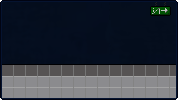
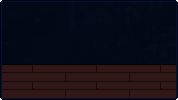
feat: add day2 scene5 lift interaction

diff --git a/edge_of_rule/src/levels/day2/scene5/spawner/notice_of_lift.rs b/edge_of_rule/src/levels/day2/scene5/spawner/notice_of_lift.rs
@@ -1,0 +1,62 @@
+use bevy::prelude::*;
+
+use crate::entities::{arrow::spawn_arrow, lift::Lift, player::Player, press_e::spawn_press_e};
+
+#[derive(Component)]
+pub struct NoticeOfLift;
+
+pub fn spawn(
+    mut commands: Commands,
+    asset_server: Res<AssetServer>,
+    notices: Query<&NoticeOfLift>,
+    players: Query<&Transform, With<Player>>,
+    lifts: Query<&Transform, With<Lift>>,
+) {
+    if notices.iter().len() != 0 {
+        return;
+    }
+
+    for player in &players {
+        for lift in &lifts {
+            if (player.translation.x - lift.translation.x).abs() < 60.0 {
+                // Keep the same UI offset pattern as Day2Scene3.
+                let arrow_pos = Transform::from_xyz(lift.translation.x, 160.0, 1.0);
+                let press_e_pos = Transform::from_xyz(lift.translation.x + 76.0, 160.0, 1.0);
+                spawn_arrow(&mut commands, arrow_pos, &asset_server, NoticeOfLift);
+                spawn_press_e(
+                    &mut commands,
+                    press_e_pos,
+                    &asset_server,
+                    "离开",
+                    NoticeOfLift,
+                );
+                return;
+            }
+        }
+    }
+}
+
+pub fn despawn(
+    mut commands: Commands,
+    notices: Query<Entity, With<NoticeOfLift>>,
+    players: Query<&Transform, With<Player>>,
+    lifts: Query<&Transform, With<Lift>>,
+) {
+    for player in &players {
+        for lift in &lifts {
+            if (player.translation.x - lift.translation.x).abs() < 60.0 {
+                return;
+            }
+        }
+    }
+
+    for notice in &notices {
+        commands.entity(notice).despawn_recursive();
+    }
+}
+
+pub fn despawn_all(mut commands: Commands, notices: Query<Entity, With<NoticeOfLift>>) {
+    for notice in &notices {
+        commands.entity(notice).despawn_recursive();
+    }
+}

diff --git a/edge_of_rule/src/levels/day2/scene5/mod.rs b/edge_of_rule/src/levels/day2/scene5/mod.rs
@@ -11,13 +11,38 @@ impl Plugin for Scene5Plugin {
     fn build(&self, app: &mut App) {
         app.add_systems(
             OnEnter(GameState::Day2Scene5),
-            (spawner::lift::spawn, actions::start_close_lift_on_enter),
+            (
+                spawner::background::spawn,
+                spawner::ground_and_wall::spawn,
+                spawner::player::spawn,
+                spawner::lift::spawn,
+                actions::start_close_lift_on_enter,
+            ),
         )
-        .add_systems(OnExit(GameState::Day2Scene5), spawner::lift::despawn)
+        .add_systems(
+            OnExit(GameState::Day2Scene5),
+            (
+                spawner::background::despawn,
+                spawner::ground_and_wall::despawn,
+                spawner::player::despawn,
+                spawner::lift::despawn,
+                actions::start_close_lift_on_enter,
+            ),
+        )
         .add_systems(
             Update,
-            crate::animation::lift_door::tick_lift_door_anim
-                .run_if(in_state(GameState::Day2Scene5)),
+            (
+                spawner::notice_of_lift::spawn.run_if(in_state(GameState::Day2Scene5)),
+                spawner::notice_of_lift::despawn.run_if(in_state(GameState::Day2Scene5)),
+                actions::enter_lift.run_if(in_state(GameState::Day2Scene5)),
+                crate::animation::lift_door::tick_lift_door_anim
+                    .run_if(in_state(GameState::Day2Scene5)),
+            ),
+        );
+
+        app.add_systems(
+            OnExit(GameState::Day2Scene5),
+            spawner::notice_of_lift::despawn_all,
         );
     }
 }

diff --git a/edge_of_rule/src/levels/day2/scene5/spawner/background.rs b/edge_of_rule/src/levels/day2/scene5/spawner/background.rs
@@ -1,0 +1,35 @@
+use bevy::prelude::*;
+
+use crate::{assets::levels::LevelsImageAssets, constants::SCALE};
+
+#[derive(Component)]
+pub struct Day2Scene5Background;
+
+pub fn spawn(mut commands: Commands, assets: Res<LevelsImageAssets>) {
+    commands.spawn((
+        SpriteBundle {
+            sprite: Sprite {
+                color: Color::BLACK,
+                custom_size: Some(Vec2 { x: 640.0, y: 400.0 }),
+                ..Default::default()
+            },
+            transform: Transform::from_xyz(0.0, 0.0, -20.0).with_scale(Vec3::splat(SCALE)),
+            ..Default::default()
+        },
+        Day2Scene5Background,
+    ));
+    commands.spawn((
+        SpriteBundle {
+            texture: assets.day2_scene5_background.clone(),
+            transform: Transform::from_xyz(0.0, 0.0, -10.0).with_scale(Vec3::splat(SCALE)),
+            ..Default::default()
+        },
+        Day2Scene5Background,
+    ));
+}
+
+pub fn despawn(mut commands: Commands, backgrounds: Query<Entity, With<Day2Scene5Background>>) {
+    for background in &backgrounds {
+        commands.entity(background).despawn();
+    }
+}

diff --git a/edge_of_rule/src/levels/day2/scene5/spawner/ground_and_wall.rs b/edge_of_rule/src/levels/day2/scene5/spawner/ground_and_wall.rs
@@ -1,0 +1,43 @@
+use bevy::prelude::*;
+
+use crate::entities::{
+    ground::{spawn_ground, Ground},
+    wall::{spawn_wall, Wall},
+};
+
+pub fn spawn(mut commands: Commands) {
+    spawn_ground(
+        &mut commands,
+        Vec2::new(1000.0, 50.0),
+        Transform::from_xyz(0.0, -150.0, 0.0),
+    );
+    spawn_wall(
+        &mut commands,
+        Vec2::new(1000.0, 50.0),
+        Transform::from_xyz(0.0, 225.0, 0.0),
+    );
+
+    spawn_wall(
+        &mut commands,
+        Vec2::new(50.0, 500.0),
+        Transform::from_xyz(-375.0, 0.0, 0.0),
+    );
+    spawn_wall(
+        &mut commands,
+        Vec2::new(50.0, 500.0),
+        Transform::from_xyz(375.0, 0.0, 0.0),
+    );
+}
+
+pub fn despawn(
+    mut commands: Commands,
+    grounds: Query<Entity, With<Ground>>,
+    walls: Query<Entity, With<Wall>>,
+) {
+    for ground in &grounds {
+        commands.entity(ground).despawn();
+    }
+    for wall in &walls {
+        commands.entity(wall).despawn();
+    }
+}

diff --git a/edge_of_rule/src/levels/day2/scene5/actions/mod.rs b/edge_of_rule/src/levels/day2/scene5/actions/mod.rs
@@ -1,7 +1,28 @@
 use bevy::prelude::*;
 
-use crate::animation::lift_door::LiftDoorAnim;
+use crate::{
+    animation::fade_mask::spawn_mask, animation::lift_door::LiftDoorAnim, core::state::GameState,
+    entities::player::SpawnPoint, levels::day2::scene5::spawner::notice_of_lift::NoticeOfLift,
+};
 
 pub fn start_close_lift_on_enter(mut lift_door: ResMut<LiftDoorAnim>) {
     lift_door.start_close();
+}
+
+pub fn enter_lift(
+    mut commands: Commands,
+    query: Query<&NoticeOfLift>,
+    input: Res<ButtonInput<KeyCode>>,
+    mut lift_door: ResMut<LiftDoorAnim>,
+) {
+    if query.iter().len() == 0 {
+        return;
+    }
+
+    if input.just_pressed(KeyCode::KeyE) {
+        // Back to Day2Scene3 and spawn right in front of its lift.
+        lift_door.start_open();
+        commands.insert_resource(SpawnPoint(Transform::from_xyz(-48.0, -68.0, 0.0)));
+        spawn_mask(&mut commands, GameState::Day2Scene3);
+    }
 }

diff --git a/edge_of_rule/src/assets/levels.rs b/edge_of_rule/src/assets/levels.rs
@@ -10,6 +10,7 @@ pub struct LevelsImageAssets {
     pub day2_scene1_background: Handle<Image>,
     pub day2_scene3_background: Handle<Image>,
     pub day2_scene4_background: Handle<Image>,
+    pub day2_scene5_background: Handle<Image>,
 }
 
 pub fn load_levels_image_assets(mut commands: Commands, asset_server: Res<AssetServer>) {
@@ -22,5 +23,6 @@ pub fn load_levels_image_assets(mut commands: Commands, asset_server: Res<AssetS
         day2_scene1_background: asset_server.load("images/levels/day2/scene1_background.png"),
         day2_scene3_background: asset_server.load("images/levels/day2/scene3_background.png"),
         day2_scene4_background: asset_server.load("images/levels/day2/scene4_background.png"),
+        day2_scene5_background: asset_server.load("images/levels/day2/scene5_background.png"),
     });
 }

diff --git a/edge_of_rule/src/levels/day2/scene3/actions/mod.rs b/edge_of_rule/src/levels/day2/scene3/actions/mod.rs
@@ -2,7 +2,7 @@ use bevy::prelude::*;
 use bevy::window::PrimaryWindow;
 
 use crate::{
-    animation::fade_mask::{spawn_mask, FadeMask},
+    animation::fade_mask::{FadeMask, spawn_mask},
     animation::lift_door::LiftDoorAnim,
     constants::SCALE,
     core::state::GameState,
@@ -224,7 +224,7 @@ pub fn enter_lift(
 
     if input.just_pressed(KeyCode::KeyE) {
         lift_door.start_open();
-        commands.insert_resource(SpawnPoint(Transform::from_xyz(-450.0, -250.0, 0.0)));
+        commands.insert_resource(SpawnPoint(Transform::from_xyz(-268.0, -68.0, 0.0)));
         spawn_mask(&mut commands, GameState::Day2Scene5);
     }
 }

diff --git a/edge_of_rule/src/levels/day2/scene5/spawner/player.rs b/edge_of_rule/src/levels/day2/scene5/spawner/player.rs
@@ -1,0 +1,16 @@
+use bevy::prelude::*;
+
+use crate::{
+    assets::player::PlayerAssets,
+    entities::player::{spawn_player, Player, SpawnPoint},
+};
+
+pub fn spawn(commands: Commands, asset: Res<PlayerAssets>, spawn_point: Res<SpawnPoint>) {
+    spawn_player(commands, asset, spawn_point.0);
+}
+
+pub fn despawn(mut commands: Commands, players: Query<Entity, With<Player>>) {
+    for player in &players {
+        commands.entity(player).despawn_recursive();
+    }
+}

diff --git a/edge_of_rule/src/levels/day2/scene5/spawner/lift.rs b/edge_of_rule/src/levels/day2/scene5/spawner/lift.rs
@@ -8,7 +8,7 @@ use crate::{
 pub fn spawn(mut commands: Commands, assets: Res<LiftAssets>) {
     spawn_lift(
         &mut commands,
-        Transform::from_xyz(-48.0, 26.0, -5.0),
+        Transform::from_xyz(-268.0, 26.0, -5.0),
         &assets,
     );
 }

diff --git a/edge_of_rule/src/levels/day2/scene5/spawner/mod.rs b/edge_of_rule/src/levels/day2/scene5/spawner/mod.rs
@@ -1,1 +1,5 @@
+pub mod background;
+pub mod ground_and_wall;
 pub mod lift;
+pub mod notice_of_lift;
+pub mod player;
